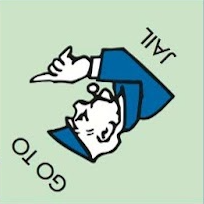
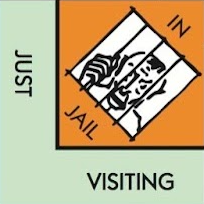
individual corner sprites implemented

diff --git a/square.py b/square.py
@@ -35,10 +35,14 @@ class Square():
         # TODO: select specific sprite img based on property.name
         # TODO: remove unecessary shapes from tiles with sprites
         scaling = width/204
-        tile_sprite = arcade.Sprite("assets/go.png", scaling)
-        tile_sprite.center_x = 0
-        tile_sprite.center_y = 0
-        self.sprite_list.append(tile_sprite)
+        sprite_names = ["go", "jail", "freeparking", "gotojail"]
+        fixed_name = self.name.lower().replace(" ", "")
+        if fixed_name in sprite_names:
+            png_name = "assets/" + fixed_name + ".png"
+            tile_sprite = arcade.Sprite(png_name, scaling)
+            tile_sprite.center_x = 0
+            tile_sprite.center_y = 0
+            self.sprite_list.append(tile_sprite)
 
         # Add objects to the shape_list
         self.shape_list.append(background)
@@ -64,6 +68,7 @@ class Square():
                 s.angle = angle
             self.sprite_list.draw()
 
+        # House sprites
         if self.property is not None:
             if self.property.building_count > 0:
                 house = self.house_sprites[self.property.building_count-1]
